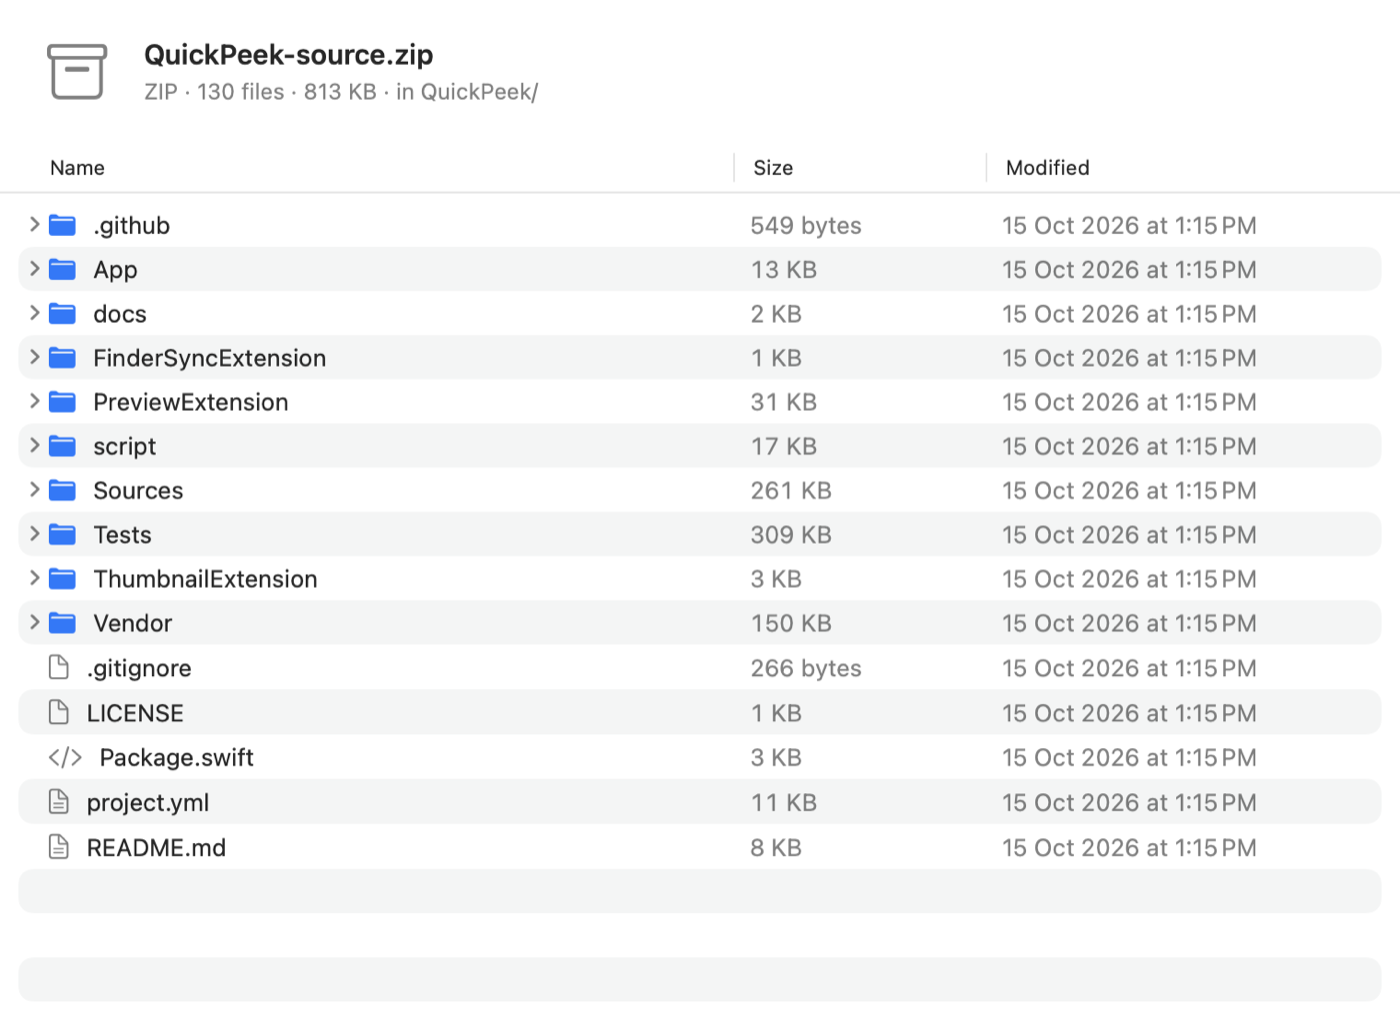
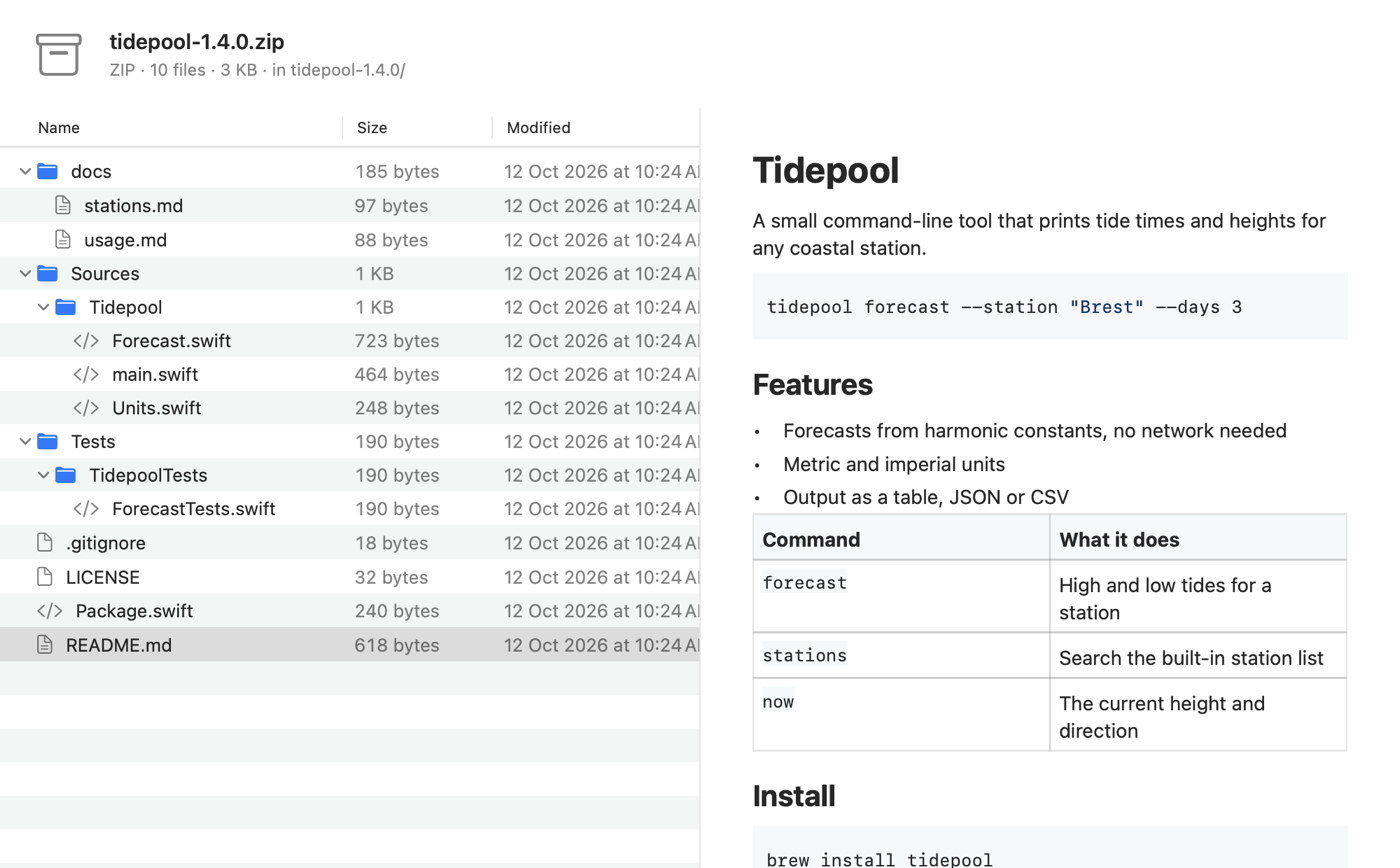
README: screenshots for archives, SQLite and torrents
The archive screenshot shows the 0.7 layout: the tree with its folders open and the
README rendered next to it. New screenshots for SQLite databases and torrents, paired
by height. The app is a 3 MB download but no longer under 4 MB unpacked; SQLite
lists .sqlite3 and .db3 too.

diff --git a/README.md b/README.md
@@ -10,18 +10,20 @@
 </p>
 
 <p align="center"><strong>One small native app that fills the gaps in Quick Look.</strong><br>
-Press Space on MKV videos, archives, source code, Markdown, Android and iOS apps, torrents and more.<br>
-Free and open source, under 4 MB, no ffmpeg, no web views.</p>
+Press Space on MKV videos, archives, folders, SQLite databases, source code, Markdown, Android and iOS apps, torrents and more.<br>
+Free and open source, a 3 MB download, no ffmpeg, no web views.</p>
 
 ## Screenshots
 
 <p align="center">
   <img src="docs/screenshots/video.jpg" width="49%" alt="An MKV video playing in Quick Look">
+  <img src="docs/screenshots/info.png" width="49%" alt="File details: container, codecs, resolution and bitrate">
   <img src="docs/screenshots/code.png" width="49%" alt="Swift source code with syntax highlighting in dark mode">
   <img src="docs/screenshots/markdown.png" width="49%" alt="A Markdown document with a table, task list and code block">
-  <img src="docs/screenshots/archive.png" width="49%" alt="The contents of a ZIP archive">
+  <img src="docs/screenshots/archive.png" width="49%" alt="A ZIP archive's file tree, with its README rendered next to it">
+  <img src="docs/screenshots/sqlite.png" width="49%" alt="An SQLite database: tables with row counts and the rows of the selected one">
   <img src="docs/screenshots/apk.png" width="49%" alt="An Android app package with its icon and permissions">
-  <img src="docs/screenshots/info.png" width="49%" alt="File details: container, codecs, resolution and bitrate">
+  <img src="docs/screenshots/torrent.png" width="49%" alt="A torrent's files, info hash and trackers, with a button that copies the magnet link">
 </p>
 
 ## What it previews
@@ -31,7 +33,7 @@ Free and open source, under 4 MB, no ffmpeg, no web views.</p>
 | **Video** — MKV, WebM, MKA | A native player with hardware decoding (H.264, HEVC, VP9, AV1\*; AAC, Opus, FLAC, AC-3, E-AC-3, MP3) and Finder thumbnails |
 | **Archives** — ZIP, RAR, 7z, TAR (gz, bz2, xz), ISO, CPIO, XAR, CAB, LHA | The file tree with sizes and dates, folders already open; select a file to see it (text, code, Markdown, images, PDF), without extracting anything |
 | **Folders** | Everything inside, as a tree with sizes and dates |
-| **SQLite databases** — `.sqlite`, `.db` | Tables and views with row counts, and the first rows of each; opened read-only |
+| **SQLite databases** — `.sqlite`, `.sqlite3`, `.db`, `.db3` | Tables and views with row counts, and the first rows of each; opened read-only |
 | **Code and config** — YAML, JSON, TOML, Swift, Python, Go, Rust, Shell, Dockerfile, ~50 more | Syntax highlighting in light and dark mode |
 | **Markdown** | Rendered text with tables, task lists and highlighted code blocks |
 | **Tables** — CSV, TSV | A real table; the delimiter is detected |
